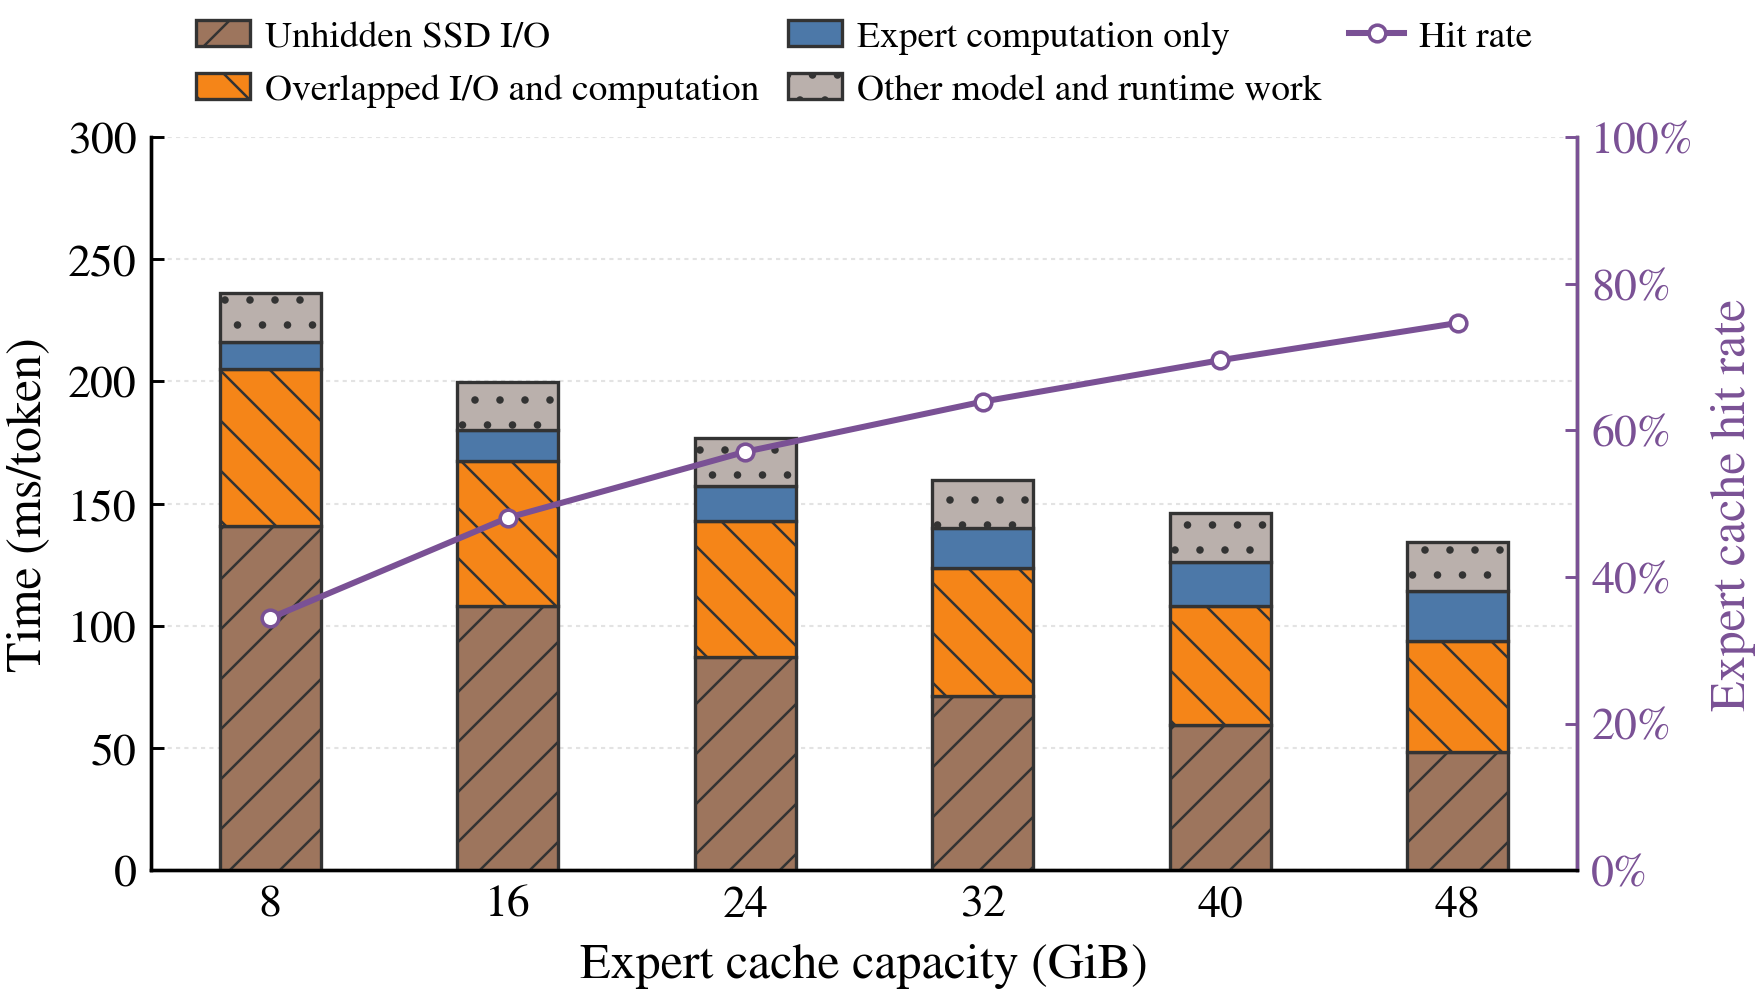
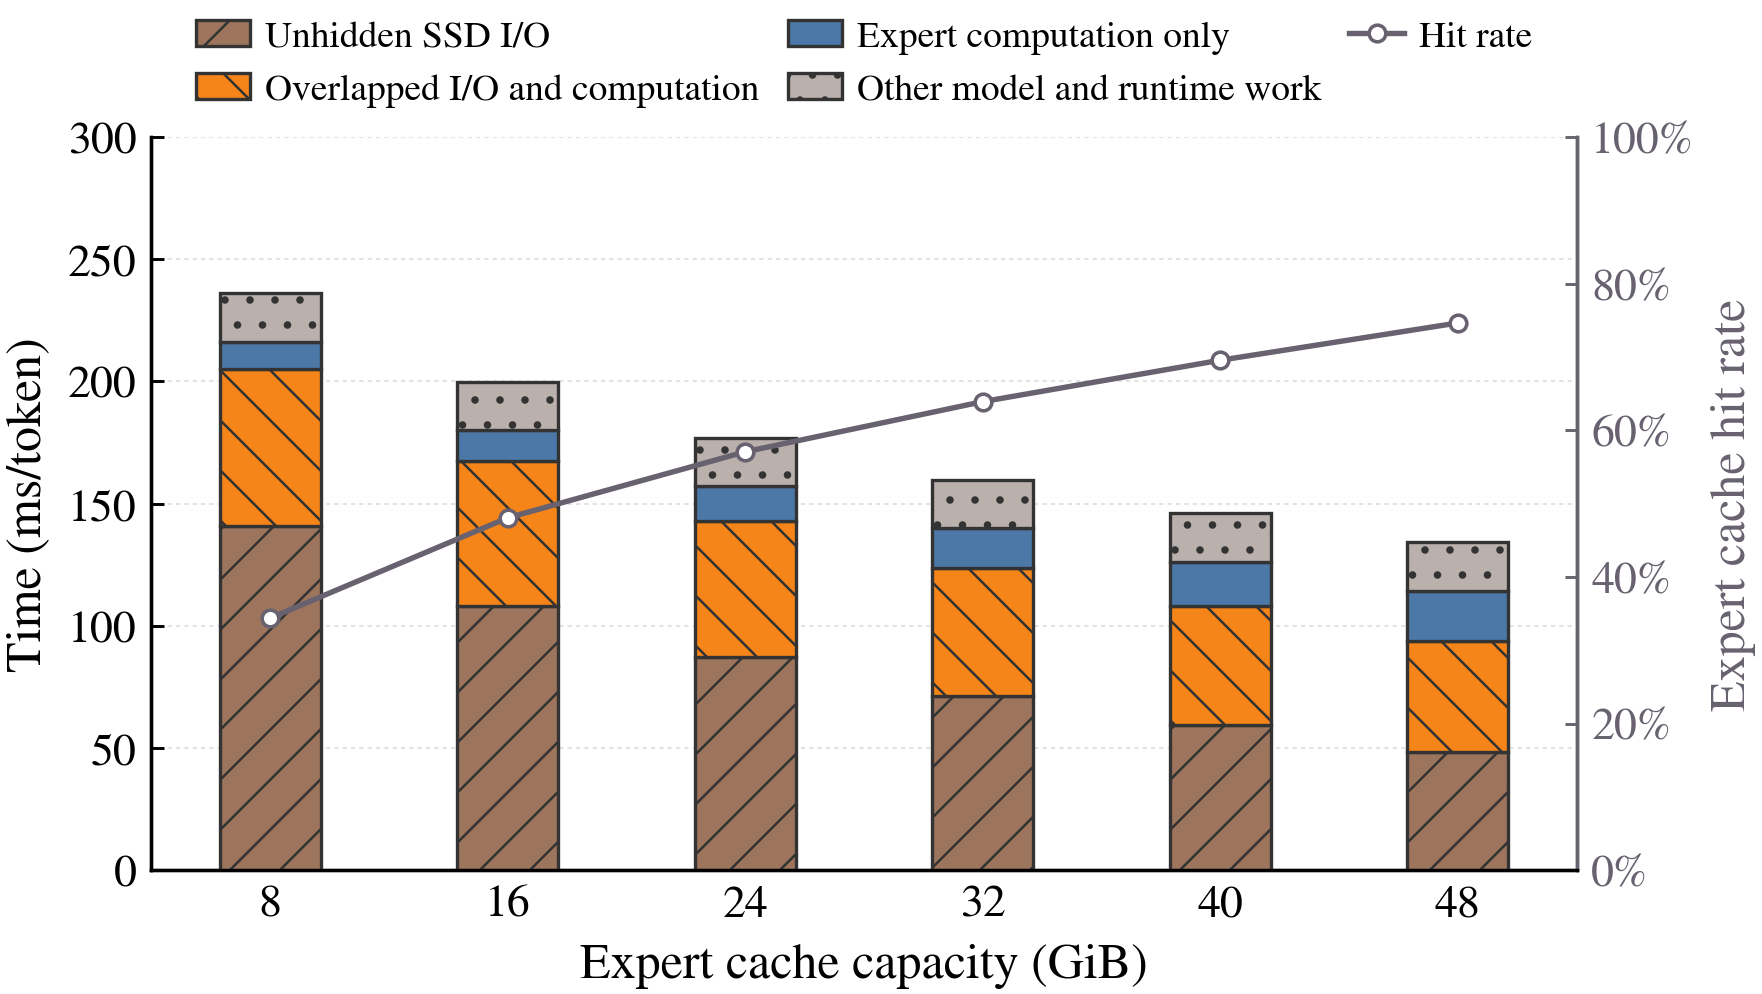
Mute combined figure hit-rate styling

diff --git a/figure/breakdown-cache-size-ms-token/plot_qwen35_cache_size_time_and_hit_rate.py b/figure/breakdown-cache-size-ms-token/plot_qwen35_cache_size_time_and_hit_rate.py
@@ -21,7 +21,7 @@ from plot_qwen35_cache_size_absolute_time_breakdown import (
 )
 
 
-HIT_RATE_COLOR = "#7A5195"
+HIT_RATE_COLOR = "#68616F"
 
 
 def plot(input_csv: Path, output_stem: Path) -> None:
@@ -53,7 +53,7 @@ def plot(input_csv: Path, output_stem: Path) -> None:
         [row.window_hit_rate for row in rows],
         color=HIT_RATE_COLOR,
         linestyle="-",
-        linewidth=1.45,
+        linewidth=1.3,
         marker="o",
         markersize=4.0,
         markerfacecolor=PALETTE["white"],
